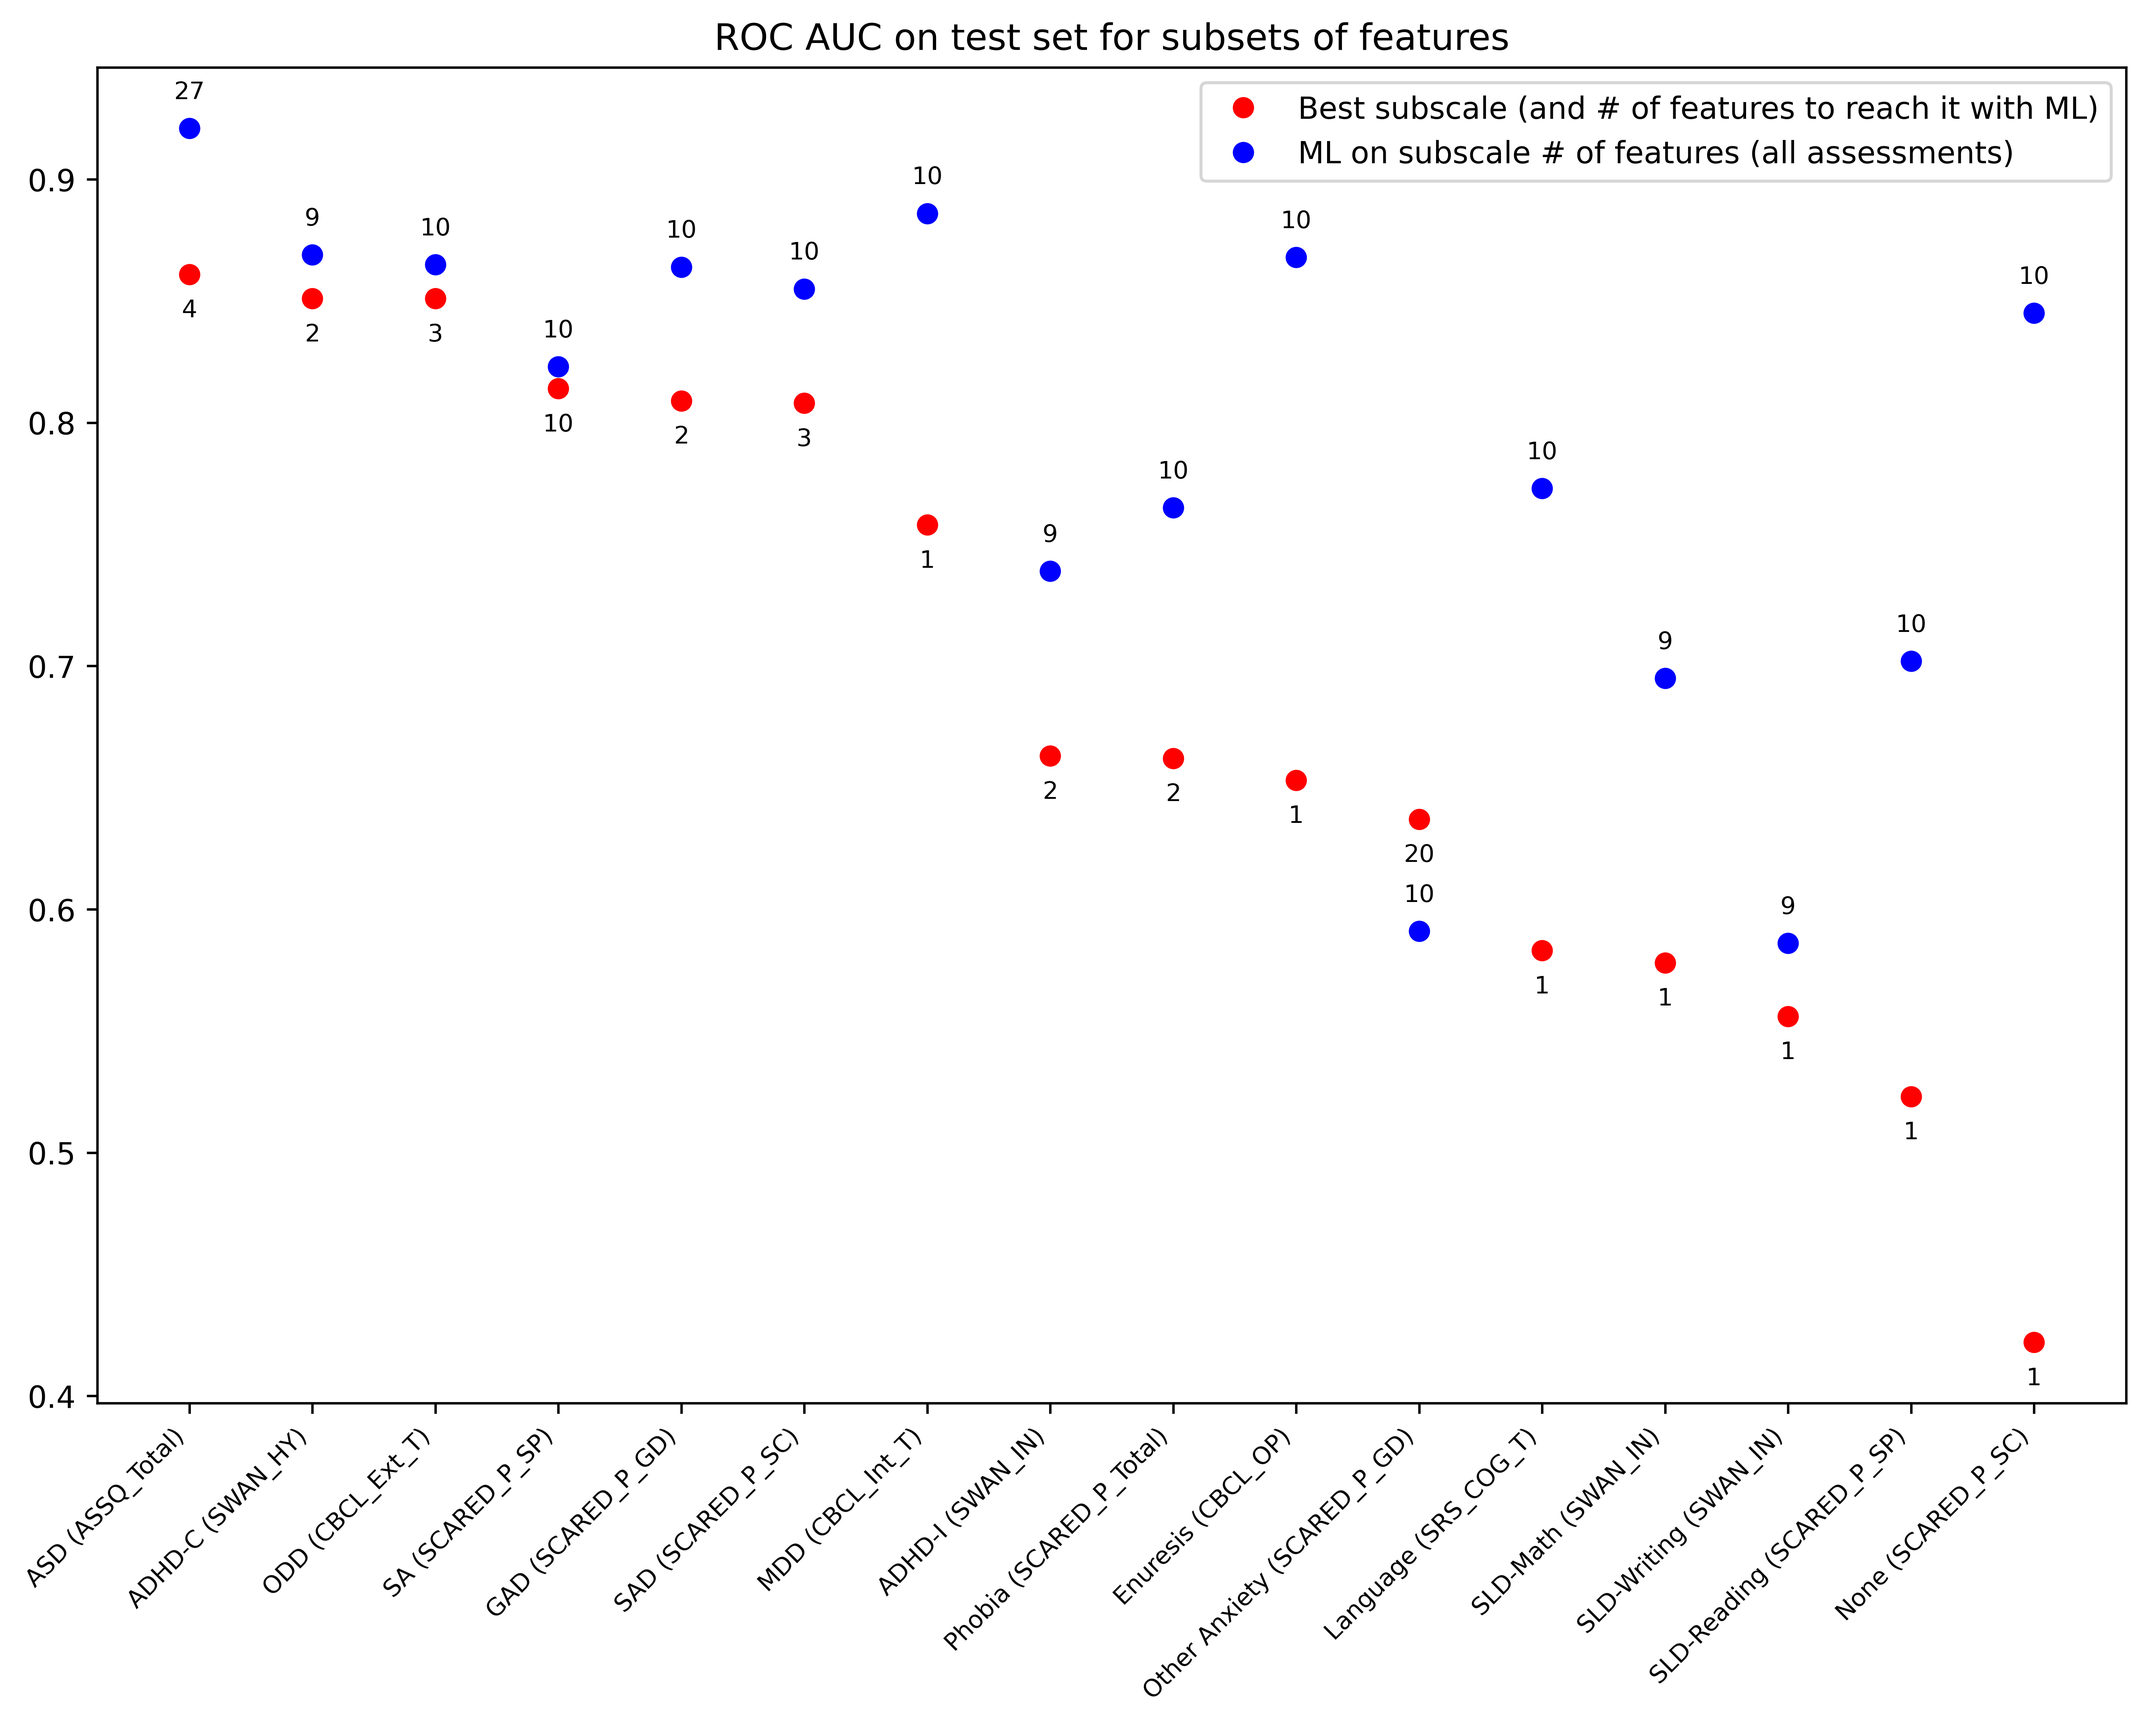
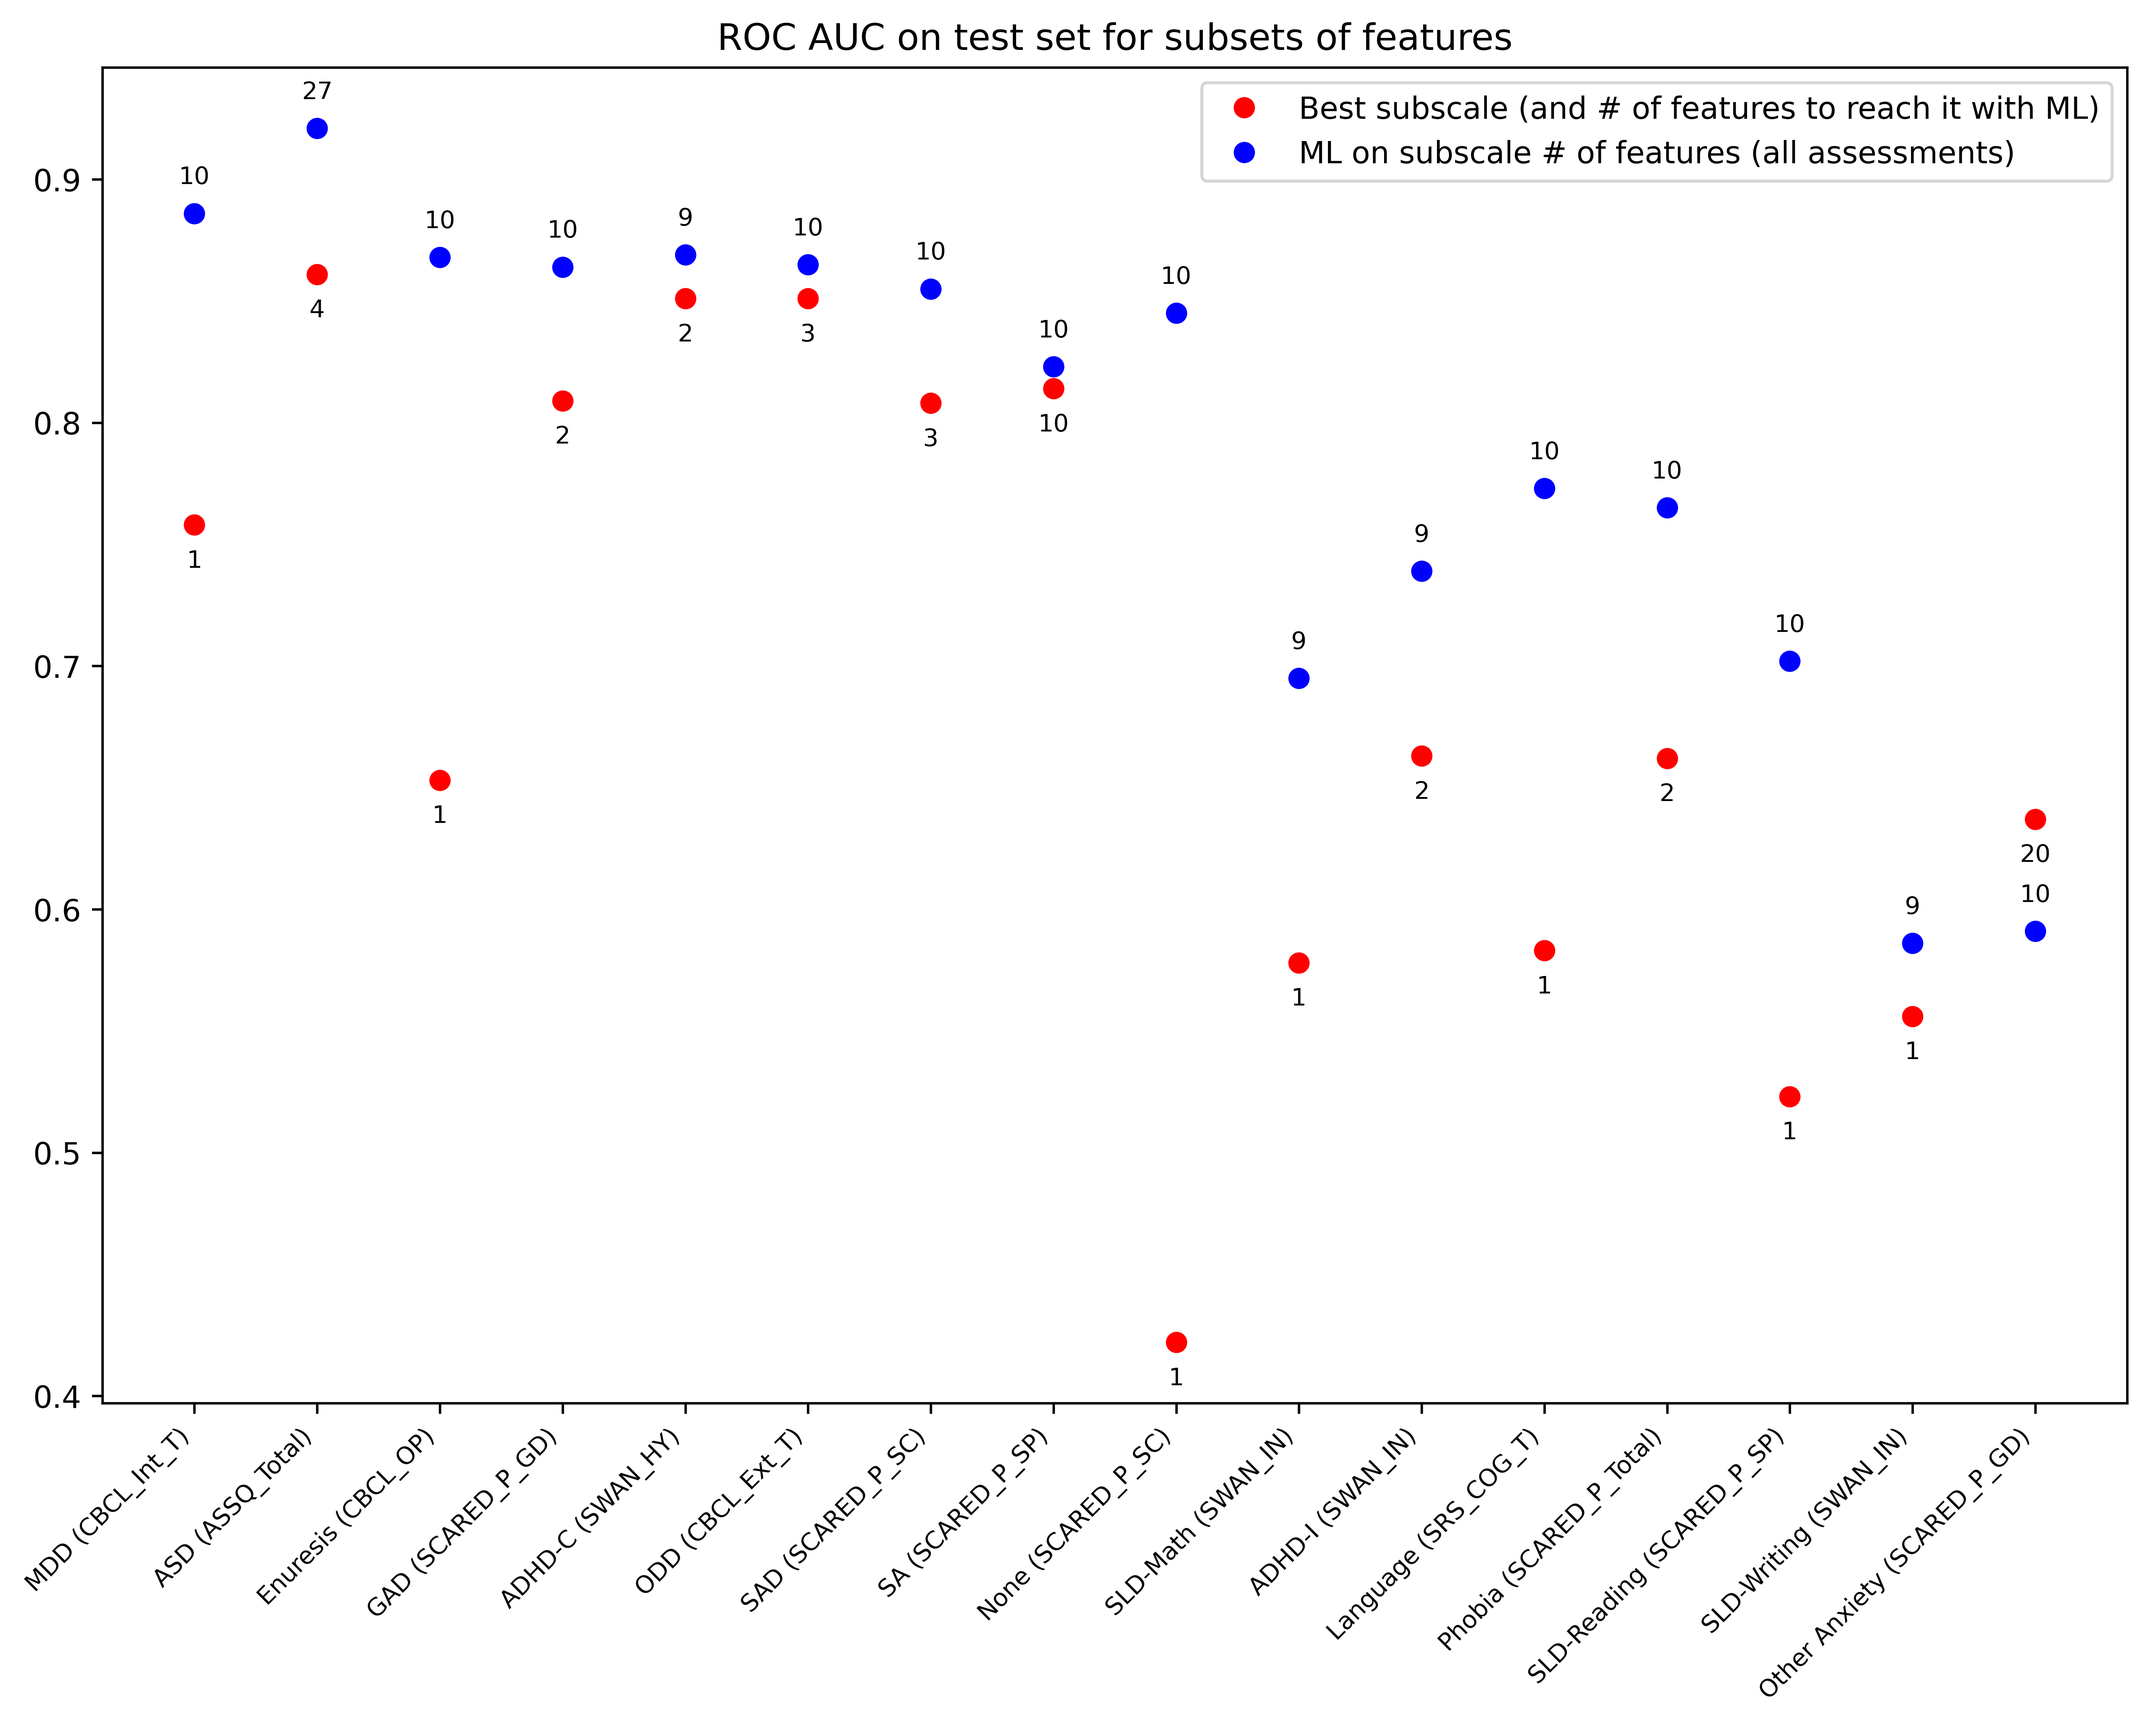
add total # features and rows to plots

diff --git a/make_plots.py b/make_plots.py
@@ -56,7 +56,10 @@ def plot_eval_orig(eval_orig_df):
     ax2.set_ylabel("Number of positive examples")
     ax2.bar(eval_orig_df.index, eval_orig_df["# of Positive Examples free assessments"].values, color="blue", width=0.5, alpha=0.2, fill=False)
     ax2.bar(eval_orig_df.index, eval_orig_df["# of Positive Examples all assessments"].values, color="blue", width=0.5, alpha=0.2)
-    ax2.legend(["# of Positive Examples free assessments", "# of Positive Examples all assessments"], loc="lower right")
+    tot_n_features_all_assessments = eval_orig_df["# rows full dataset all assessments"].values[0]
+    tot_n_features_free_assessments = eval_orig_df["# rows full dataset free assessments"].values[0]
+    ax2.legend([f"# of Positive Examples free assessments/{tot_n_features_free_assessments}", f"# of Positive Examples all assessments/{tot_n_features_all_assessments}"], loc="lower right")
+    
 
     # ax2 = plt.twinx()
     # ax2.bar(eval_orig_df.index, eval_orig_df["# of Positive Examples all assessments"], alpha=0.3, color="black")
@@ -101,12 +104,16 @@ def plot_manual_vs_ml(eval_subsets_df):
 
 def plot_opt_num_features(opt_vs_all_df):
     opt_vs_all_df = opt_vs_all_df.sort_values(by="AUC optimal features all assessments", ascending=False)
+
+    # Get total number of features in all assessments and free assessments
+    tot_n_features_all_assessments = opt_vs_all_df["# input features all assessments"].values[0]
+    tot_n_features_free_assessments = opt_vs_all_df["# input features free assessments"].values[0]
     
     # Plot AUC on all features all assessments, AUC on optimal # of features all assessments, AUC on optimal # of features free assessments, AUC on all features free assessments
     plt.figure(figsize=(10, 8))
     plt.title("ROC AUC on test set for subsets of features vs all features")
-    plt.plot(opt_vs_all_df["AUC all features all assessments"], label="AUC on all features (all assessments)", marker="o", linestyle="", color="blue")
-    plt.plot(opt_vs_all_df["AUC all features free assessments"], label="AUC on all features (free assessments)", marker="o", linestyle="", color="blue", markerfacecolor='none')
+    plt.plot(opt_vs_all_df[f"AUC all features all assessments"], label=f"AUC on all features ({tot_n_features_all_assessments}) (all assessments)", marker="o", linestyle="", color="blue")
+    plt.plot(opt_vs_all_df[f"AUC all features free assessments"], label=f"AUC on all features ({tot_n_features_free_assessments}) (free assessments)", marker="o", linestyle="", color="blue", markerfacecolor='none')
     plt.plot(opt_vs_all_df["AUC optimal features all assessments"], label="AUC on optimal # of features (all assessments)", marker="o", linestyle="", color="red")
     plt.plot(opt_vs_all_df["AUC optimal features free assessments"], label="AUC on optimal # of features (free assessments)", marker="o", linestyle="", color="red", markerfacecolor='none')
     plt.xticks(rotation=45, ha="right", size=8)
@@ -143,11 +150,6 @@ def plot_thresholds(thresholds_df):
 
 def plot_what_improves_LD(check_what_improves_LD_df):
 
-    # Make all columns except those that start with ROC AUC into ints (if not NA) (bug in pd)
-    for col in check_what_improves_LD_df.columns:
-        if not col.startswith("ROC AUC"):
-            check_what_improves_LD_df[col] = check_what_improves_LD_df[col].astype('Int64')
-
     sns.set_style("whitegrid")
     sns.set_context("paper")
 
@@ -177,8 +179,6 @@ def plot_what_improves_LD(check_what_improves_LD_df):
 def main():
 
     # Read performance tables
-    eval_orig_df = pd.read_csv("output/eval_orig.csv", index_col=0)
-    eval_subsets_df = pd.read_csv("output/eval_subsets.csv", index_col=0)
     compare_orig_subsets_df = pd.read_csv("output/compare_orig_vs_subsets.csv", index_col=0)
     what_improves_LD_df = pd.read_csv("output/what_improves_LD.csv", index_col=0)
 
@@ -188,12 +188,22 @@ def main():
     thresholds_df = make_df_to_plot_thresholds(dir_eval_subsets_all[0], filename)
     
     # Rephrase diags to shorter names
-    eval_orig_df = eval_orig_df.rename(index=diagnosis_dict)
-    eval_subsets_df = eval_subsets_df.rename(index=diagnosis_dict)
+    compare_orig_subsets_df = compare_orig_subsets_df.rename(index=diagnosis_dict)
     what_improves_LD_df = what_improves_LD_df.rename(index=diagnosis_dict)
 
-    plot_eval_orig(eval_orig_df)
-    plot_manual_vs_ml(eval_subsets_df)
+    # Make all columns except those that start with ROC AUC into ints (if not NA) (bug in pd)
+    for col in what_improves_LD_df.columns:
+        print(col)
+        if not "AUC" in col and not "score" in col and not "Best subscale" in col:
+            what_improves_LD_df[col] = what_improves_LD_df[col].astype('Int64')
+    for col in compare_orig_subsets_df.columns:
+        print(col)
+        if not "AUC" in col and not "score" in col and not "Best subscale" in col:
+            compare_orig_subsets_df[col] = compare_orig_subsets_df[col].astype('Int64')
+
+
+    plot_eval_orig(compare_orig_subsets_df)
+    plot_manual_vs_ml(compare_orig_subsets_df)
     plot_opt_num_features(compare_orig_subsets_df)
     plot_thresholds(thresholds_df)
     plot_what_improves_LD(what_improves_LD_df)

diff --git a/make_final_tables.py b/make_final_tables.py
@@ -90,10 +90,10 @@ def make_df_ds_stats(dir_all, dir_free):
     print(ds_stats_df_all_assessments)
 
     ds_stats_df_all_assessments = ds_stats_df_all_assessments.T[["n_rows_full_ds", "n_input_cols"]]
-    ds_stats_df_all_assessments.columns = ["# of rows full dataset all assessments", "# input features all assessments"]
+    ds_stats_df_all_assessments.columns = ["# rows full dataset all assessments", "# input features all assessments"]
 
     ds_stats_df_free_assessments = ds_stats_df_free_assessments.T[["n_rows_full_ds", "n_input_cols"]]
-    ds_stats_df_free_assessments.columns = ["# of rows full dataset free assessments", "# input features free assessments"]
+    ds_stats_df_free_assessments.columns = ["# rows full dataset free assessments", "# input features free assessments"]
 
     #Merge
     ds_stats_df = ds_stats_df_all_assessments.merge(ds_stats_df_free_assessments, left_index=True, right_index=True)
